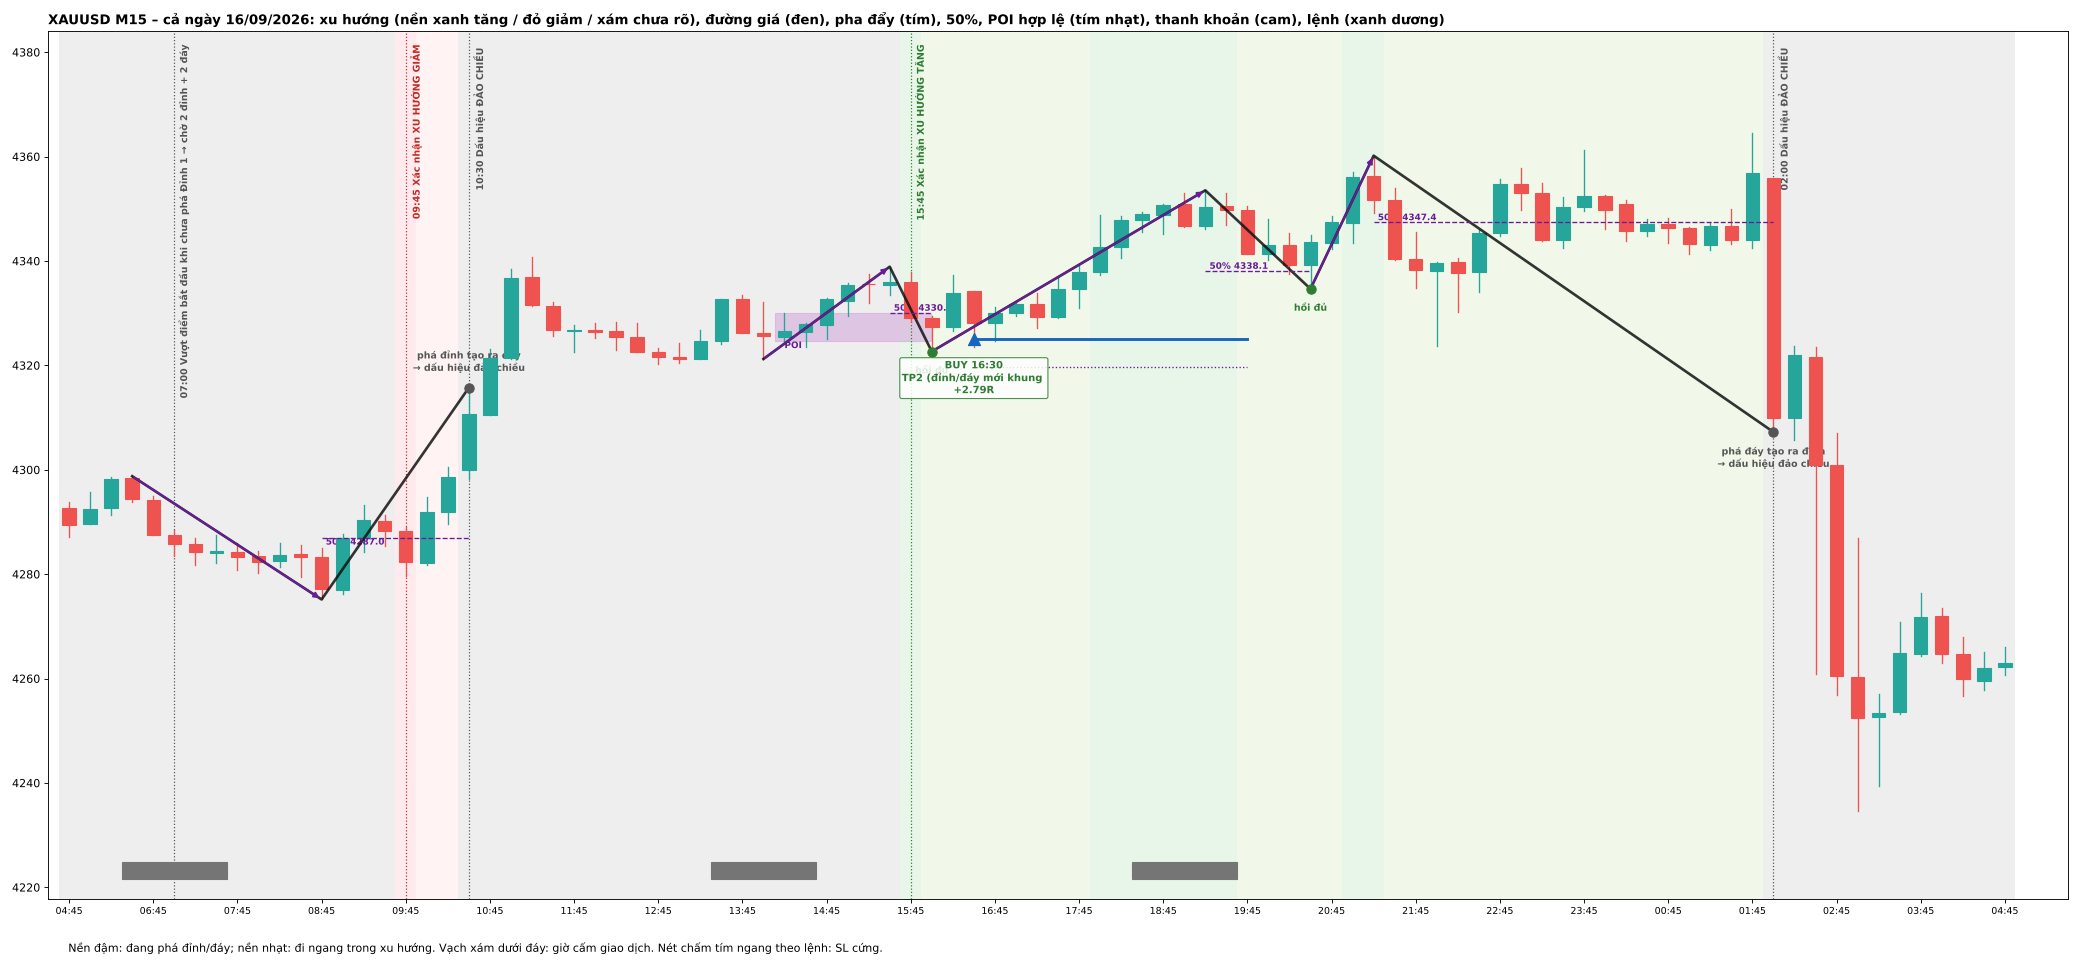
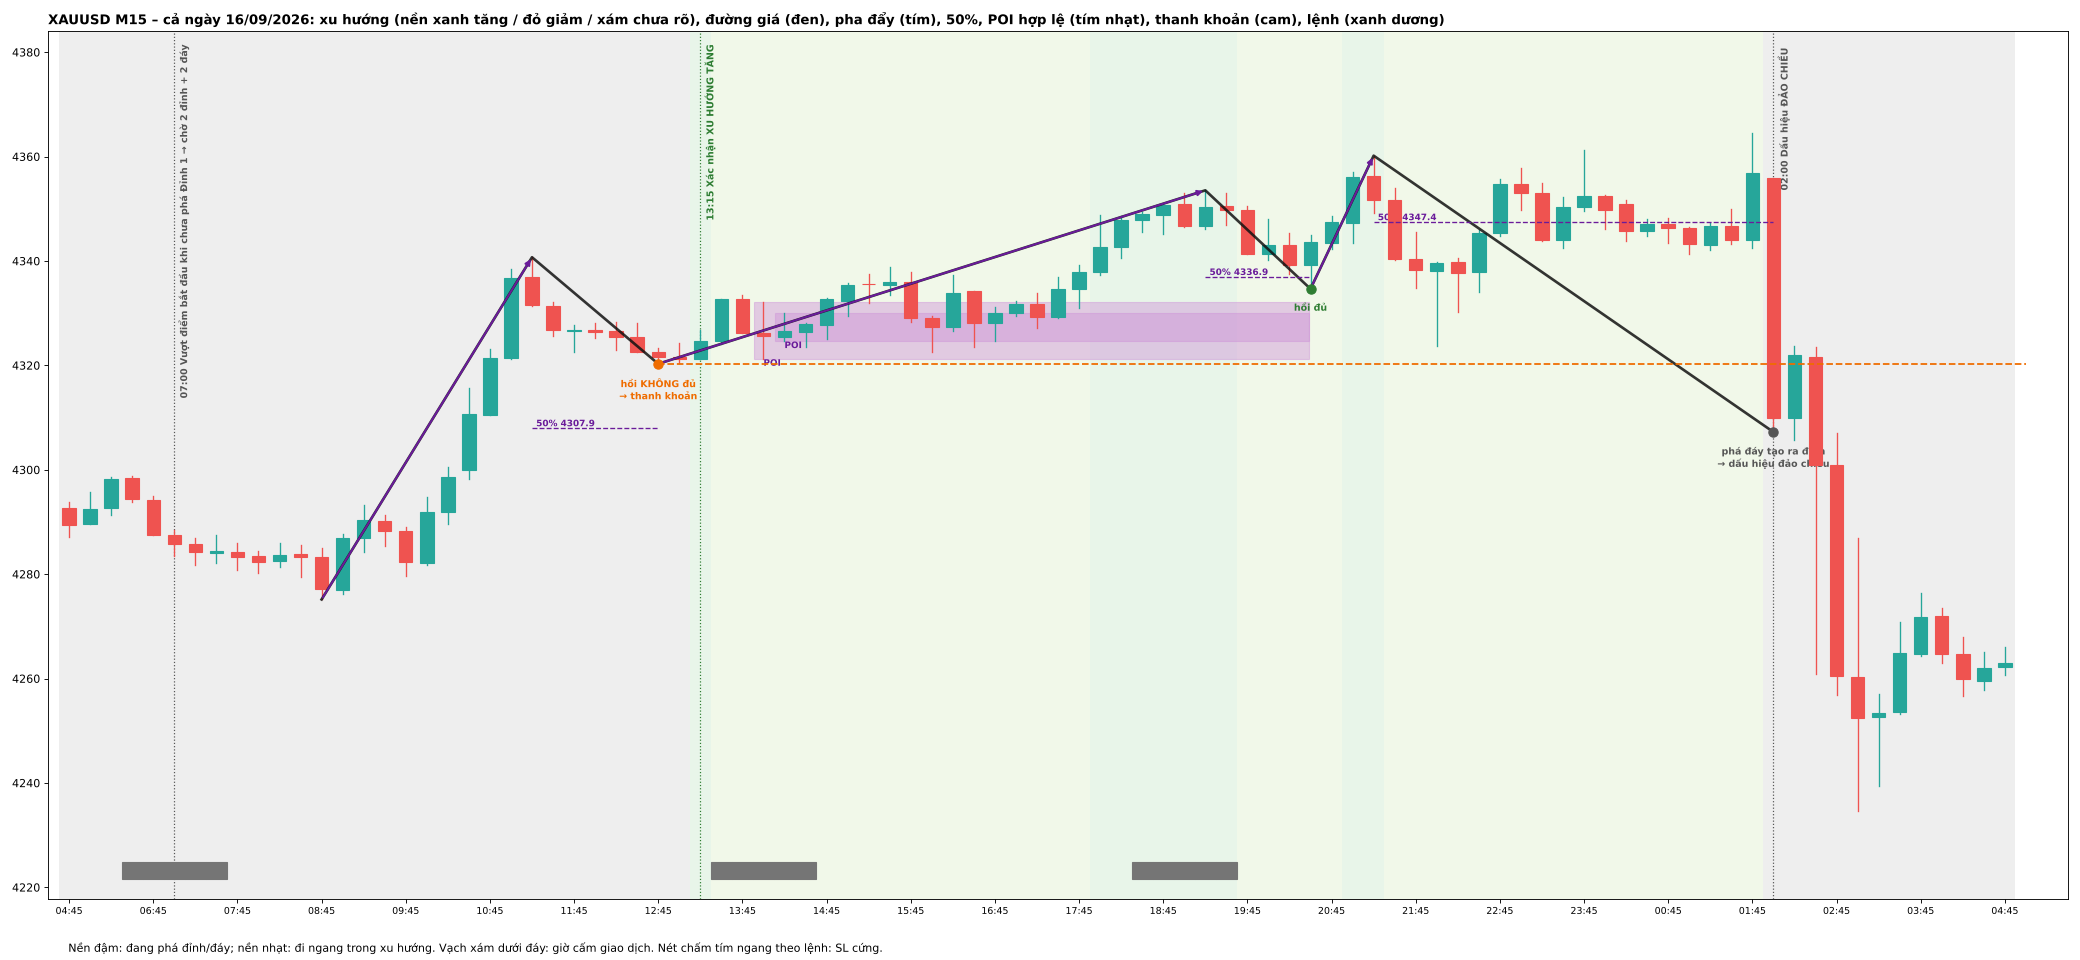
Quy tắc xác nhận xu hướng mới (giảm: đỉnh thấp hơn rồi phá đáy; tăng: phá đỉnh rồi đáy cao hơn); vẽ lại 16/09; chạy lại backtest
Claude-Session: https://claude.ai/code/session_01QDQqkxbAsnss6apbWZAP33

diff --git a/tools/smc_engine.py b/tools/smc_engine.py
@@ -52,6 +52,7 @@ class Swing:
     price: float
     conf: int      # chỉ số nến xác nhận (hoặc nến mà tại đó đỉnh/đáy được ghi nhận)
     how: str       # "m12" (quy tắc mục 1–2) | "break" (phá vỡ) | "between" (cực trị giữa hai đỉnh/đáy) | "open" (nến đóng cửa ngày trước)
+    src: object = None  # điểm bắt đầu pha đẩy tạo ra đỉnh/đáy này (xác nhận kiểu "phá đỉnh rồi đáy cao hơn")
 
 
 @dataclass
@@ -63,7 +64,7 @@ class Result:
 
 
 # ----------------------------------------------------------------------------- lõi
-def analyze(bars, start_rule=None):
+def analyze(bars, start_rule=None, inverted=False, trend_rule="user"):
     """start_rule="prev_close": nến đầu tiên (bars[0]) là nến đóng cửa ngày hôm trước và được coi là
     Đỉnh 1 (giá đi xuống trước) hoặc Đáy 1 (giá đi lên trước) – xem knowledge/03-setup.md mục 3."""
     n = len(bars)
@@ -83,22 +84,83 @@ def analyze(bars, start_rule=None):
 
     def conclude(i):
         nonlocal mode, T, B, scan
+        if trend_rule == "2x2":
+            return conclude_2x2(i)
+        # Quy tắc người dùng (đã xác nhận 16/09/2026), tính theo giá THẬT (inverted = dữ liệu đã đảo dấu):
+        #  - GIẢM thật: đã có đỉnh thấp hơn, sau đó phá đáy gần nhất, và đáy mới (thấp hơn) được xác nhận.
+        #  - TĂNG thật: phá đỉnh trước đó, sau đó tạo đáy cao hơn (được xác nhận).
+        real_up = "UP" if not inverted else "DOWN"; real_dn = "DOWN" if not inverted else "UP"
+        for dirn, how in ((real_dn, "ctb"), (real_up, "btc")):
+            sg = 1 if dirn == "UP" else -1
+            KE, KC = ("T", "B") if dirn == "UP" else ("B", "T")
+            v = lambda x: sg * x
+            last = hist[-1]
+            if how == "ctb":        # counter (đỉnh thấp hơn) rồi break (phá đáy), xác nhận khi cực trị mới được xác nhận
+                if last.kind != KE:
+                    continue
+                Es = [w for w in hist if w.kind == KE]
+                if len(Es) < 2:
+                    continue
+                En, Ep = Es[-1], Es[-2]
+                Ck = [w for w in hist if w.kind == KC and Ep.i < w.i < En.i]
+                Cp = [w for w in hist if w.kind == KC and w.i < Ep.i]
+                if not Ck or not Cp:
+                    continue
+                if v(En.price) > v(Ep.price) and v(Ck[-1].price) < v(Cp[-1].price):
+                    rng = range(Ep.i, En.i + 1)
+                    k = max(rng, key=lambda q: H[q]) if KC == "T" else min(rng, key=lambda q: L[q])
+                    other = add(Swing(KC, k, H[k] if KC == "T" else L[k], i, "between"))
+                    return set_trend(i, dirn, En, other)
+            else:                    # break (phá đỉnh) rồi counter (đáy cao hơn)
+                if last.kind != KC:
+                    continue
+                Cs = [w for w in hist if w.kind == KC]
+                if len(Cs) < 2:
+                    continue
+                Cn, Cp = Cs[-1], Cs[-2]
+                Eref = [w for w in hist if w.kind == KE and w.i < Cp.i]
+                if not Eref or not v(Cn.price) > v(Cp.price):
+                    continue
+                lvl = v(Eref[-1].price)
+                if any(v(C[q]) > lvl for q in range(Cp.i + 1, Cn.i + 1)):
+                    rng = range(Cp.i, Cn.i + 1)
+                    k = max(rng, key=lambda q: H[q]) if KE == "T" else min(rng, key=lambda q: L[q])
+                    ext = add(Swing(KE, k, H[k] if KE == "T" else L[k], i, "between"))
+                    # điểm bắt đầu pha đẩy = cực trị ngược chiều thấp/cao nhất giữa đỉnh/đáy bị phá (Eref) và đỉnh/đáy mới
+                    E0 = Eref[-1]
+                    for w in reversed([w for w in hist if w.kind == KE and w.i < k]):
+                        if v(w.price) < v(H[k] if KE == "T" else L[k]):
+                            E0 = w
+                        else:
+                            break
+                    rr = range(E0.i, k + 1)
+                    z = min(rr, key=lambda q: L[q]) if KC == "B" else max(rr, key=lambda q: H[q])
+                    ext.src = Swing(KC, z, L[z] if KC == "B" else H[z], i, "between")
+                    return set_trend(i, dirn, ext, Cn)
+
+    def set_trend(i, dirn, ext, other):
+        nonlocal mode, T, B, scan
+        mode = dirn
+        if dirn == "UP":
+            T, B = ext, other
+        else:
+            B, T = ext, other
+        scan = None
+        real = "TĂNG" if (dirn == "UP") != inverted else "GIẢM"
+        res.events.append((i, "Xác nhận XU HƯỚNG " + real))
+
+    def conclude_2x2(i):
+        nonlocal mode, T, B, scan
         tops = [s for s in hist if s.kind == "T"][-2:]
         bots = [s for s in hist if s.kind == "B"][-2:]
         if len(tops) < 2 or len(bots) < 2:
             return
         if tops[1].price > tops[0].price and bots[1].price > bots[0].price:
-            mode = "UP"; T = tops[1]
-            # đáy tạo ra đỉnh gần nhất = đáy (mục 1–2) gần nhất nằm TRƯỚC đỉnh đó
-            prev = [s for s in hist if s.kind == "B" and s.i < T.i]
-            B = prev[-1] if prev else bots[1]
-            res.events.append((i, "Xác nhận XU HƯỚNG TĂNG"))
+            prev = [s for s in hist if s.kind == "B" and s.i < tops[1].i]
+            set_trend(i, "UP", tops[1], prev[-1] if prev else bots[1])
         elif tops[1].price < tops[0].price and bots[1].price < bots[0].price:
-            mode = "DOWN"; B = bots[1]
-            prev = [s for s in hist if s.kind == "T" and s.i < B.i]
-            T = prev[-1] if prev else tops[1]
-            res.events.append((i, "Xác nhận XU HƯỚNG GIẢM"))
-        scan = None
+            prev = [s for s in hist if s.kind == "T" and s.i < bots[1].i]
+            set_trend(i, "DOWN", bots[1], prev[-1] if prev else tops[1])
 
     res.ctx = [None] * n
     if start_rule == "prev_close":
@@ -151,7 +213,7 @@ def analyze(bars, start_rule=None):
                         else:
                             T, B = Q2, P2
                         scan = None
-                        res.events.append((i, "Xác nhận XU HƯỚNG " + ("GIẢM" if dn else "TĂNG")))
+                        res.events.append((i, "Xác nhận XU HƯỚNG " + (("GIẢM" if dn else "TĂNG") if not inverted else ("TĂNG" if dn else "GIẢM"))))
                         res.state[i] = mode
                     else:
                         mode = "UNKNOWN"; hist = [P1, Q1, P2, Q2]; look = "T" if dn else "B"; start = j + 1

diff --git a/tools/backtest.py b/tools/backtest.py
@@ -102,13 +102,13 @@ def day_starts(bars, gap_min=30):
     return out
 
 
-def analyze_daily(bars, start_rule=None):
+def analyze_daily(bars, start_rule=None, inverted=False):
     """Mỗi ngày giao dịch bắt đầu tìm xu hướng lại từ NẾN ĐÓNG CỬA CỦA NGÀY LIỀN TRƯỚC (nến cuối ngày hôm trước)."""
     n = len(bars); ctx = [("UNKNOWN", None, None, None)] * n
     starts = day_starts(bars) + [n]
     for a, b in zip(starts, starts[1:]):
         s = max(0, a - 1)                                   # nến cuối của ngày trước
-        r = eng.analyze(bars[s:b], start_rule=start_rule)
+        r = eng.analyze(bars[s:b], start_rule=start_rule, inverted=inverted)
         cache = {}
         def sh(sw):
             if sw is None:
@@ -155,7 +155,9 @@ def run_long(m15, m1, ctx, side, spread, hard_buf, be_tf="M15", log=None, diag=N
                 prev_wave = wave
                 inc("1_song"); D["2_poi_hop_le"] = D.get("2_poi_hop_le", 0) + len(pois)
                 wave = {"T": T, "start": start, "mid": mid, "pois": sorted(pois, key=lambda i: -m15[i].h),
-                        "mid_touched": False, "traded": False}
+                        "mid_touched": False, "traded": B.i > T.i}
+                # B nằm SAU T: xu hướng được xác nhận bằng "phá đỉnh rồi tạo đáy cao hơn" → pha hồi của pha đẩy này đã xong,
+                # không vào lệnh trên sóng này (chờ pha đẩy tiếp theo).
                 if setup and setup["state"] != "open":
                     setup = None
         else:
@@ -351,8 +353,9 @@ def main():
     print(f"Khung: {a.khung}  ({len(m15)} nến khung lớn, {len(m1)} nến khung vào lệnh)")
     trades = []; diag = {}
     for side, A, Bm in (("BUY", m15, m1), ("SELL", neg(m15), neg(m1))):
-        ctx = (analyze_daily(A, "prev_close" if a.mo_dau == "gia-dong-cua" else None) if a.xu_huong == "moi-ngay"
-               else eng.analyze(A).ctx)
+        inv = side == "SELL"
+        ctx = (analyze_daily(A, "prev_close" if a.mo_dau == "gia-dong-cua" else None, inverted=inv) if a.xu_huong == "moi-ngay"
+               else eng.analyze(A, inverted=inv).ctx)
         trades += run_long(A, Bm, ctx, side, a.spread, a.hard, a.be_tf, diag=diag, poi_mode=a.vung, strict_time=a.gio_cam_chat,
                           huy_khi_tao_dinh=not a.khong_huy_khi_tao_dinh)
     print("Phễu lọc:", ", ".join(f"{k}={v}" for k, v in sorted(diag.items())))

diff --git a/tools/ve_ca_ngay.py b/tools/ve_ca_ngay.py
@@ -36,11 +36,18 @@ for sg in segs:
     up = sg["mode"] == "UP"; a, b = sg["a"], sg["b"]
     _, T, B, _ = r.ctx[a]
     pts = [(B.i, B.price), (T.i, T.price)] if up else [(T.i, T.price), (B.i, B.price)]
+    # xác nhận kiểu "phá đỉnh rồi đáy cao hơn": pha hồi (B sau T) đã xong → thêm pha đẩy trước đó
+    ext, cnt = (T, B) if up else (B, T)
+    if cnt.i > ext.i and getattr(ext, "src", None) is not None:
+        pv = ext.src
+        pts = [(pv.i, pv.price), (ext.i, ext.price), (cnt.i, cnt.price)]
     for i in range(a + 1, b + 1):
         _, T2, B2, _ = r.ctx[i]
         p, q = ((B2, T2) if up else (T2, B2))
-        if q.i != pts[-1][0]:
-            pts.append((p.i, p.price)); pts.append((q.i, q.price))
+        if q.i != pts[-1][0] and q.i not in [x[0] for x in pts]:
+            if p.i != pts[-1][0]:
+                pts.append((p.i, p.price))
+            pts.append((q.i, q.price))
     endi = min(n - 1, b + 1)
     rng = range(pts[-1][0] + 1, endi + 1)
     sc = r.ctx[b][3]

diff --git a/knowledge/03-setup.md b/knowledge/03-setup.md
@@ -75,7 +75,9 @@ Ví dụ chart thật: `examples/01-dinh-day-xauusd-h4.jpg`
   - **Xác nhận xu hướng khi đang chưa rõ / đi ngang (đã xác nhận qua ngày 16/09/2026, `backtest/sang-2026-09-16-sua.png`):**
     - Chỉ dùng đỉnh/đáy **đã có nến xác nhận theo cách 1** (nến 07:00 ngày 16/09 đóng dưới Đáy 1 nhưng chưa có nến tạo đáy → không tính; đoạn từ Đỉnh 1 xuống đáy 4275.15 là đi ngang).
     - **Xu hướng giảm chỉ xác nhận khi giá PHÁ ĐÁY GẦN NHẤT SAU KHI đã có đỉnh thấp hơn.**
-    - Xu hướng tăng (người dùng nói): phá đỉnh trước đó rồi tạo đáy cao hơn → tăng. CHƯA CHỐT dạng đối xứng – xem câu hỏi.
+    - **Xu hướng GIẢM:** đã có **đỉnh thấp hơn**, sau đó giá **phá đáy gần nhất**, và phải **đợi tạo đáy thấp hơn** (đáy mới được xác nhận theo cách 1) mới xác nhận giảm (đã xác nhận).
+    - **Xu hướng TĂNG (cách B, đã xác nhận):** giá **phá đỉnh trước đó**, sau đó **tạo đáy cao hơn** (được xác nhận theo cách 1) → xác nhận tăng. Người dùng chấp nhận hai chiều KHÔNG đối xứng.
+    - Ví dụ 16/09: đỉnh 4293.28 thấp hơn nhưng chưa phá đáy 4275.15 → chưa giảm; 10:30 phá đỉnh, đáy 4320.30 > 4275.15 xác nhận lúc 13:15 → TĂNG.
   - **Trường hợp 2 (đã xác nhận, xem `examples/37-truong-hop-2-rau-vuot-dinh-1.png`):** râu nến chọc qua Đỉnh 1 nhưng **thân chưa đóng cửa qua** → **chưa được coi là phá qua Đỉnh 1**. Giá phá Đáy 1 tạo Đáy 2 → vẫn **xác nhận xu hướng giảm** khi Đáy 2 xác nhận (không so râu Đỉnh 2 với Đỉnh 1). Đi lên trước: ngược lại.
   - **Trường hợp 3a (đã xác nhận):** đi ngang rồi phá XUỐNG Đáy 1 → Đáy 2 (phá vỡ); Đỉnh 2 = điểm cao nhất giữa Đáy 1 và Đáy 2 (cách 2) – hợp lệ vì khoảng đó nằm sau Đỉnh 1.
   - Minh họa: `examples/35-buoc1-tat-ca-truong-hop.png`, `examples/36-chua-ro-xu-huong-cach-2.png`.

diff --git a/backtest/README.md b/backtest/README.md
@@ -124,3 +124,8 @@ Khác biệt nhỏ: quy tắc mở đầu ngày chỉ ảnh hưởng tới vài 
 - M15/M15 mỗi ngày, không cần POI: 34 lệnh, thắng 5 thua 26 hòa 3, **+2.03R**, sụt −8.47R (trước: 42 lệnh, +5.52R).
 - M1/M1: 543 lệnh, thắng 108 thua 435, **+11.15R**, sụt −16.39R (trước: 728 lệnh, +51.32R).
 - Lệnh 22/10 15:00 (+5.43R) vẫn giữ nguyên.
+
+## Lần 11 – quy tắc xác nhận xu hướng mới khi chưa rõ / đi ngang (người dùng chốt qua ngày 16/09)
+- GIẢM: có đỉnh thấp hơn → phá đáy gần nhất → đáy thấp hơn được xác nhận. TĂNG: phá đỉnh trước đó → đáy cao hơn được xác nhận.
+- Khi tăng được xác nhận bằng "phá đỉnh rồi đáy cao hơn", pha hồi của pha đẩy đó đã xong → không vào lệnh trên sóng này.
+- M15/M15 mỗi ngày, không cần POI: 20 lệnh, thắng 2 thua 18, **+1.51R**. M1/M1: 342 lệnh, thắng 69 thua 273, **+15.79R**.
